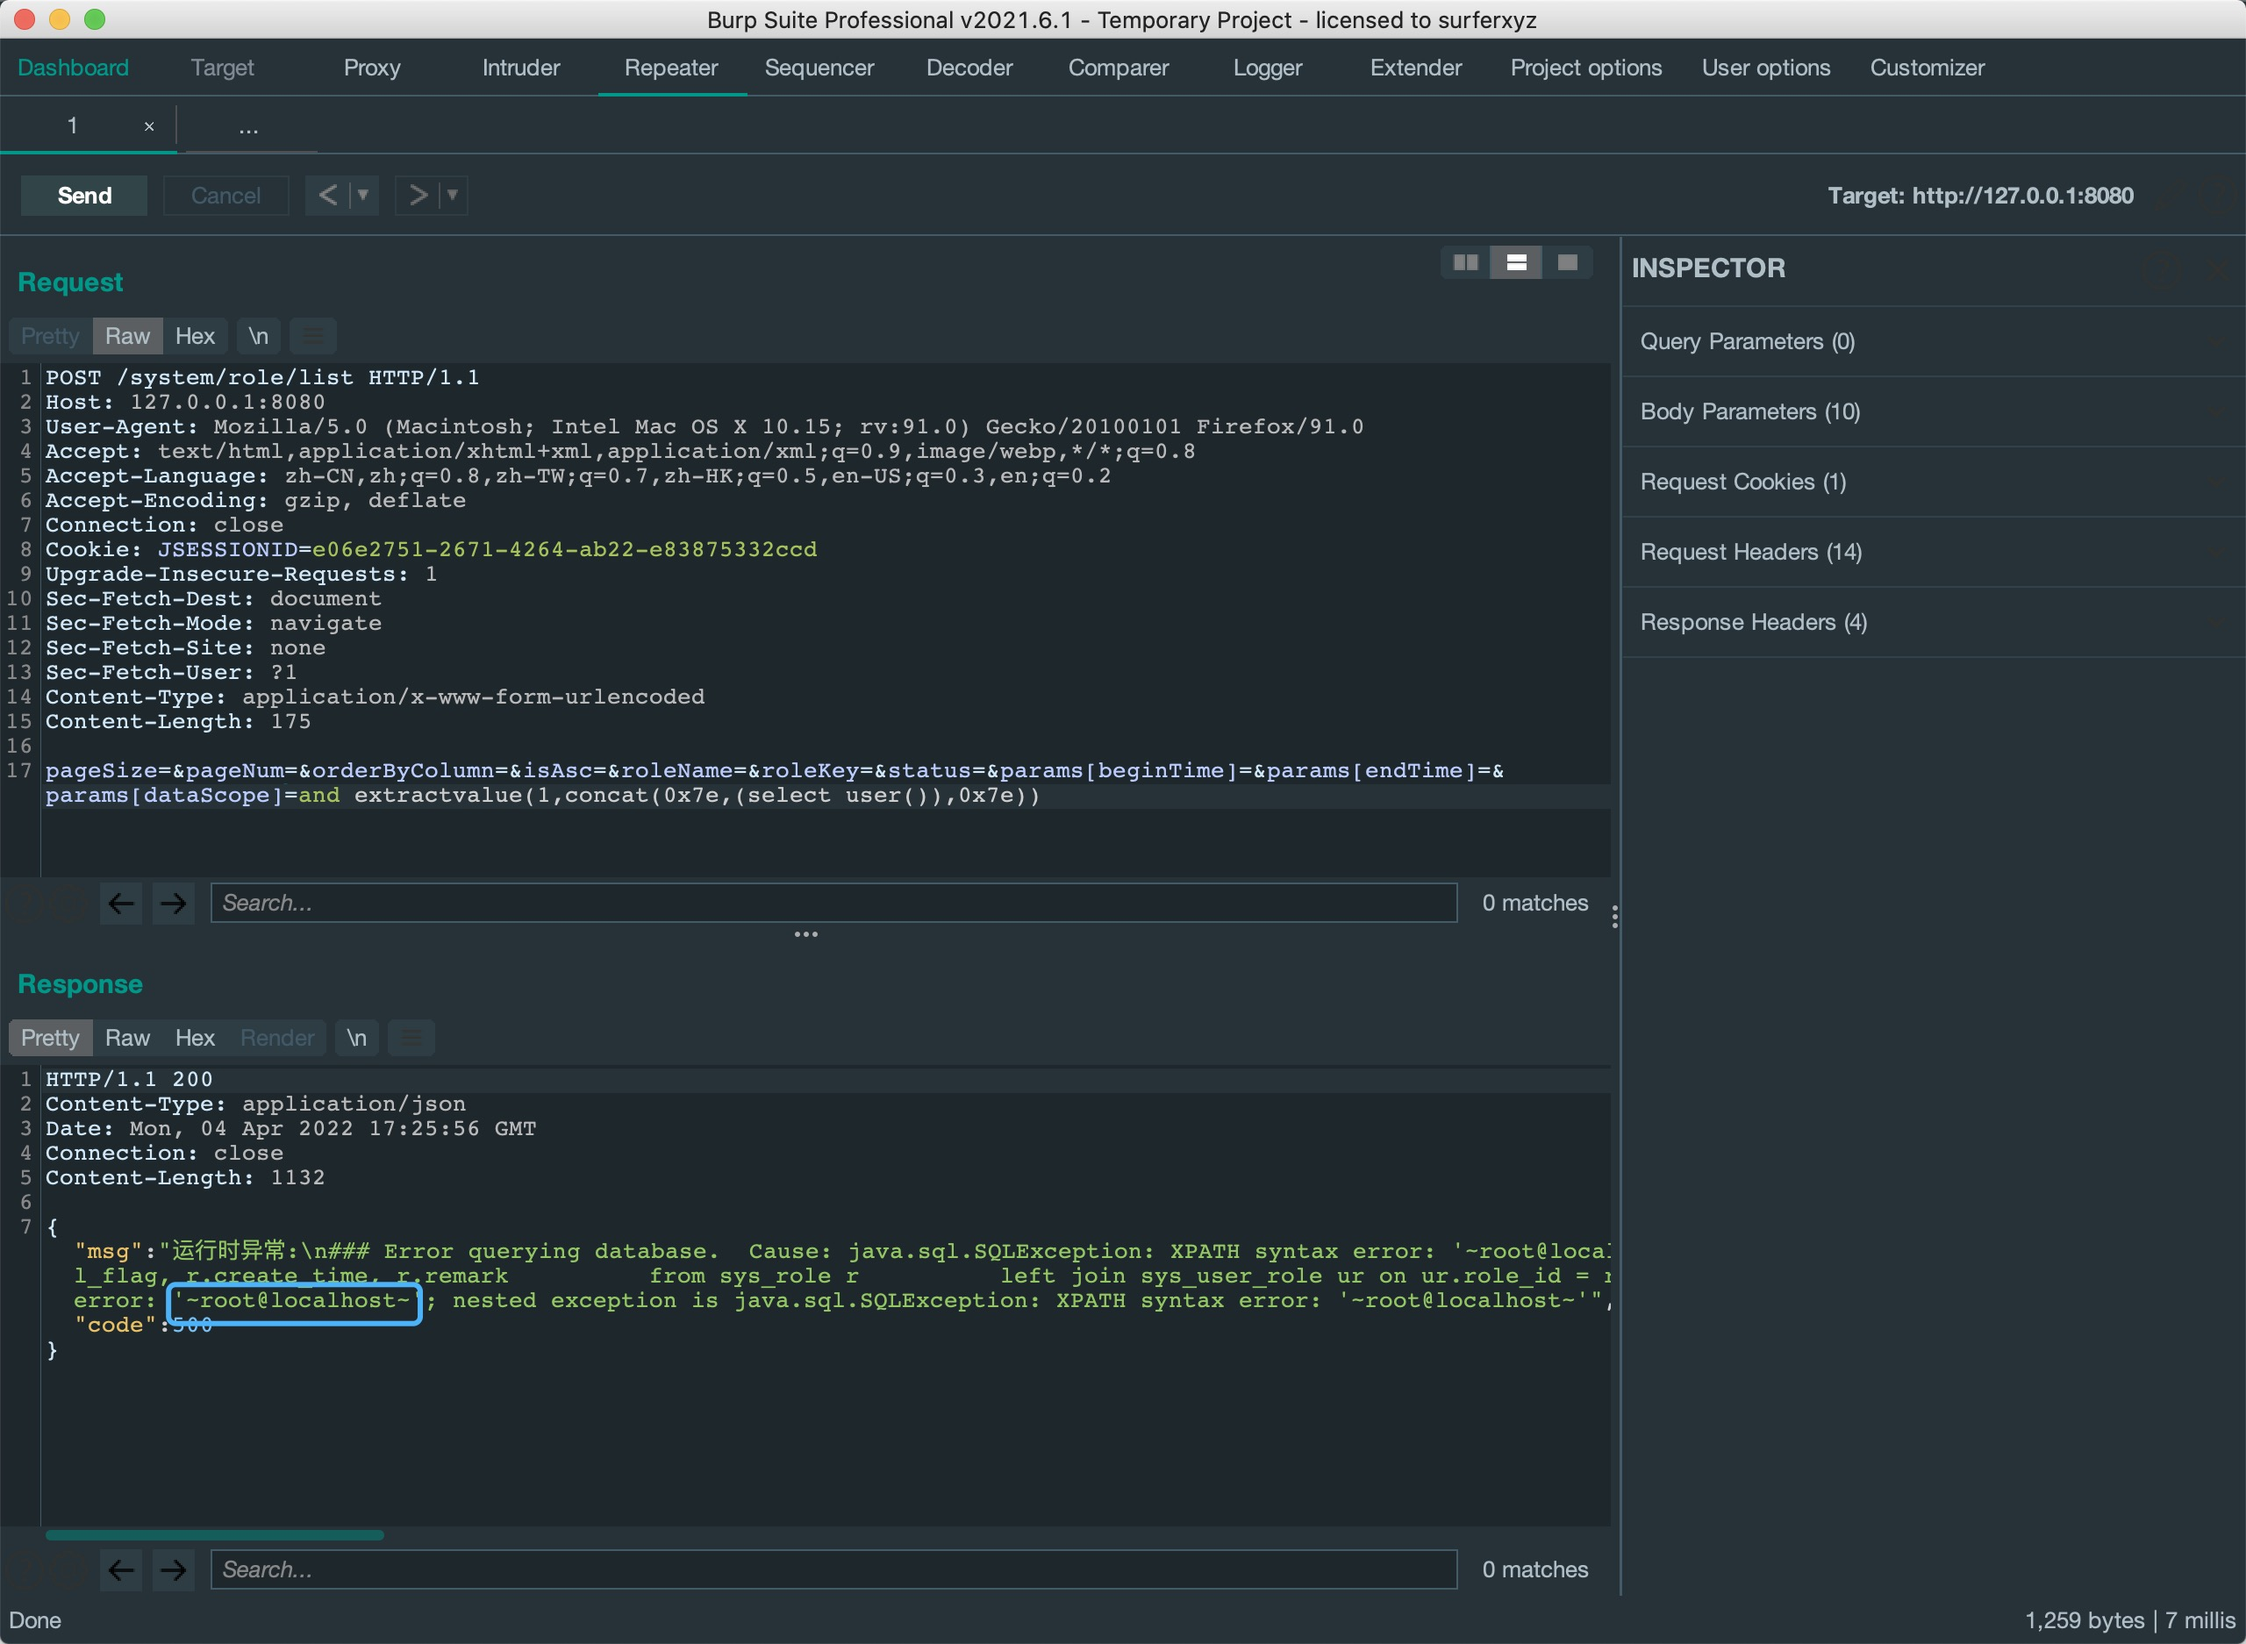
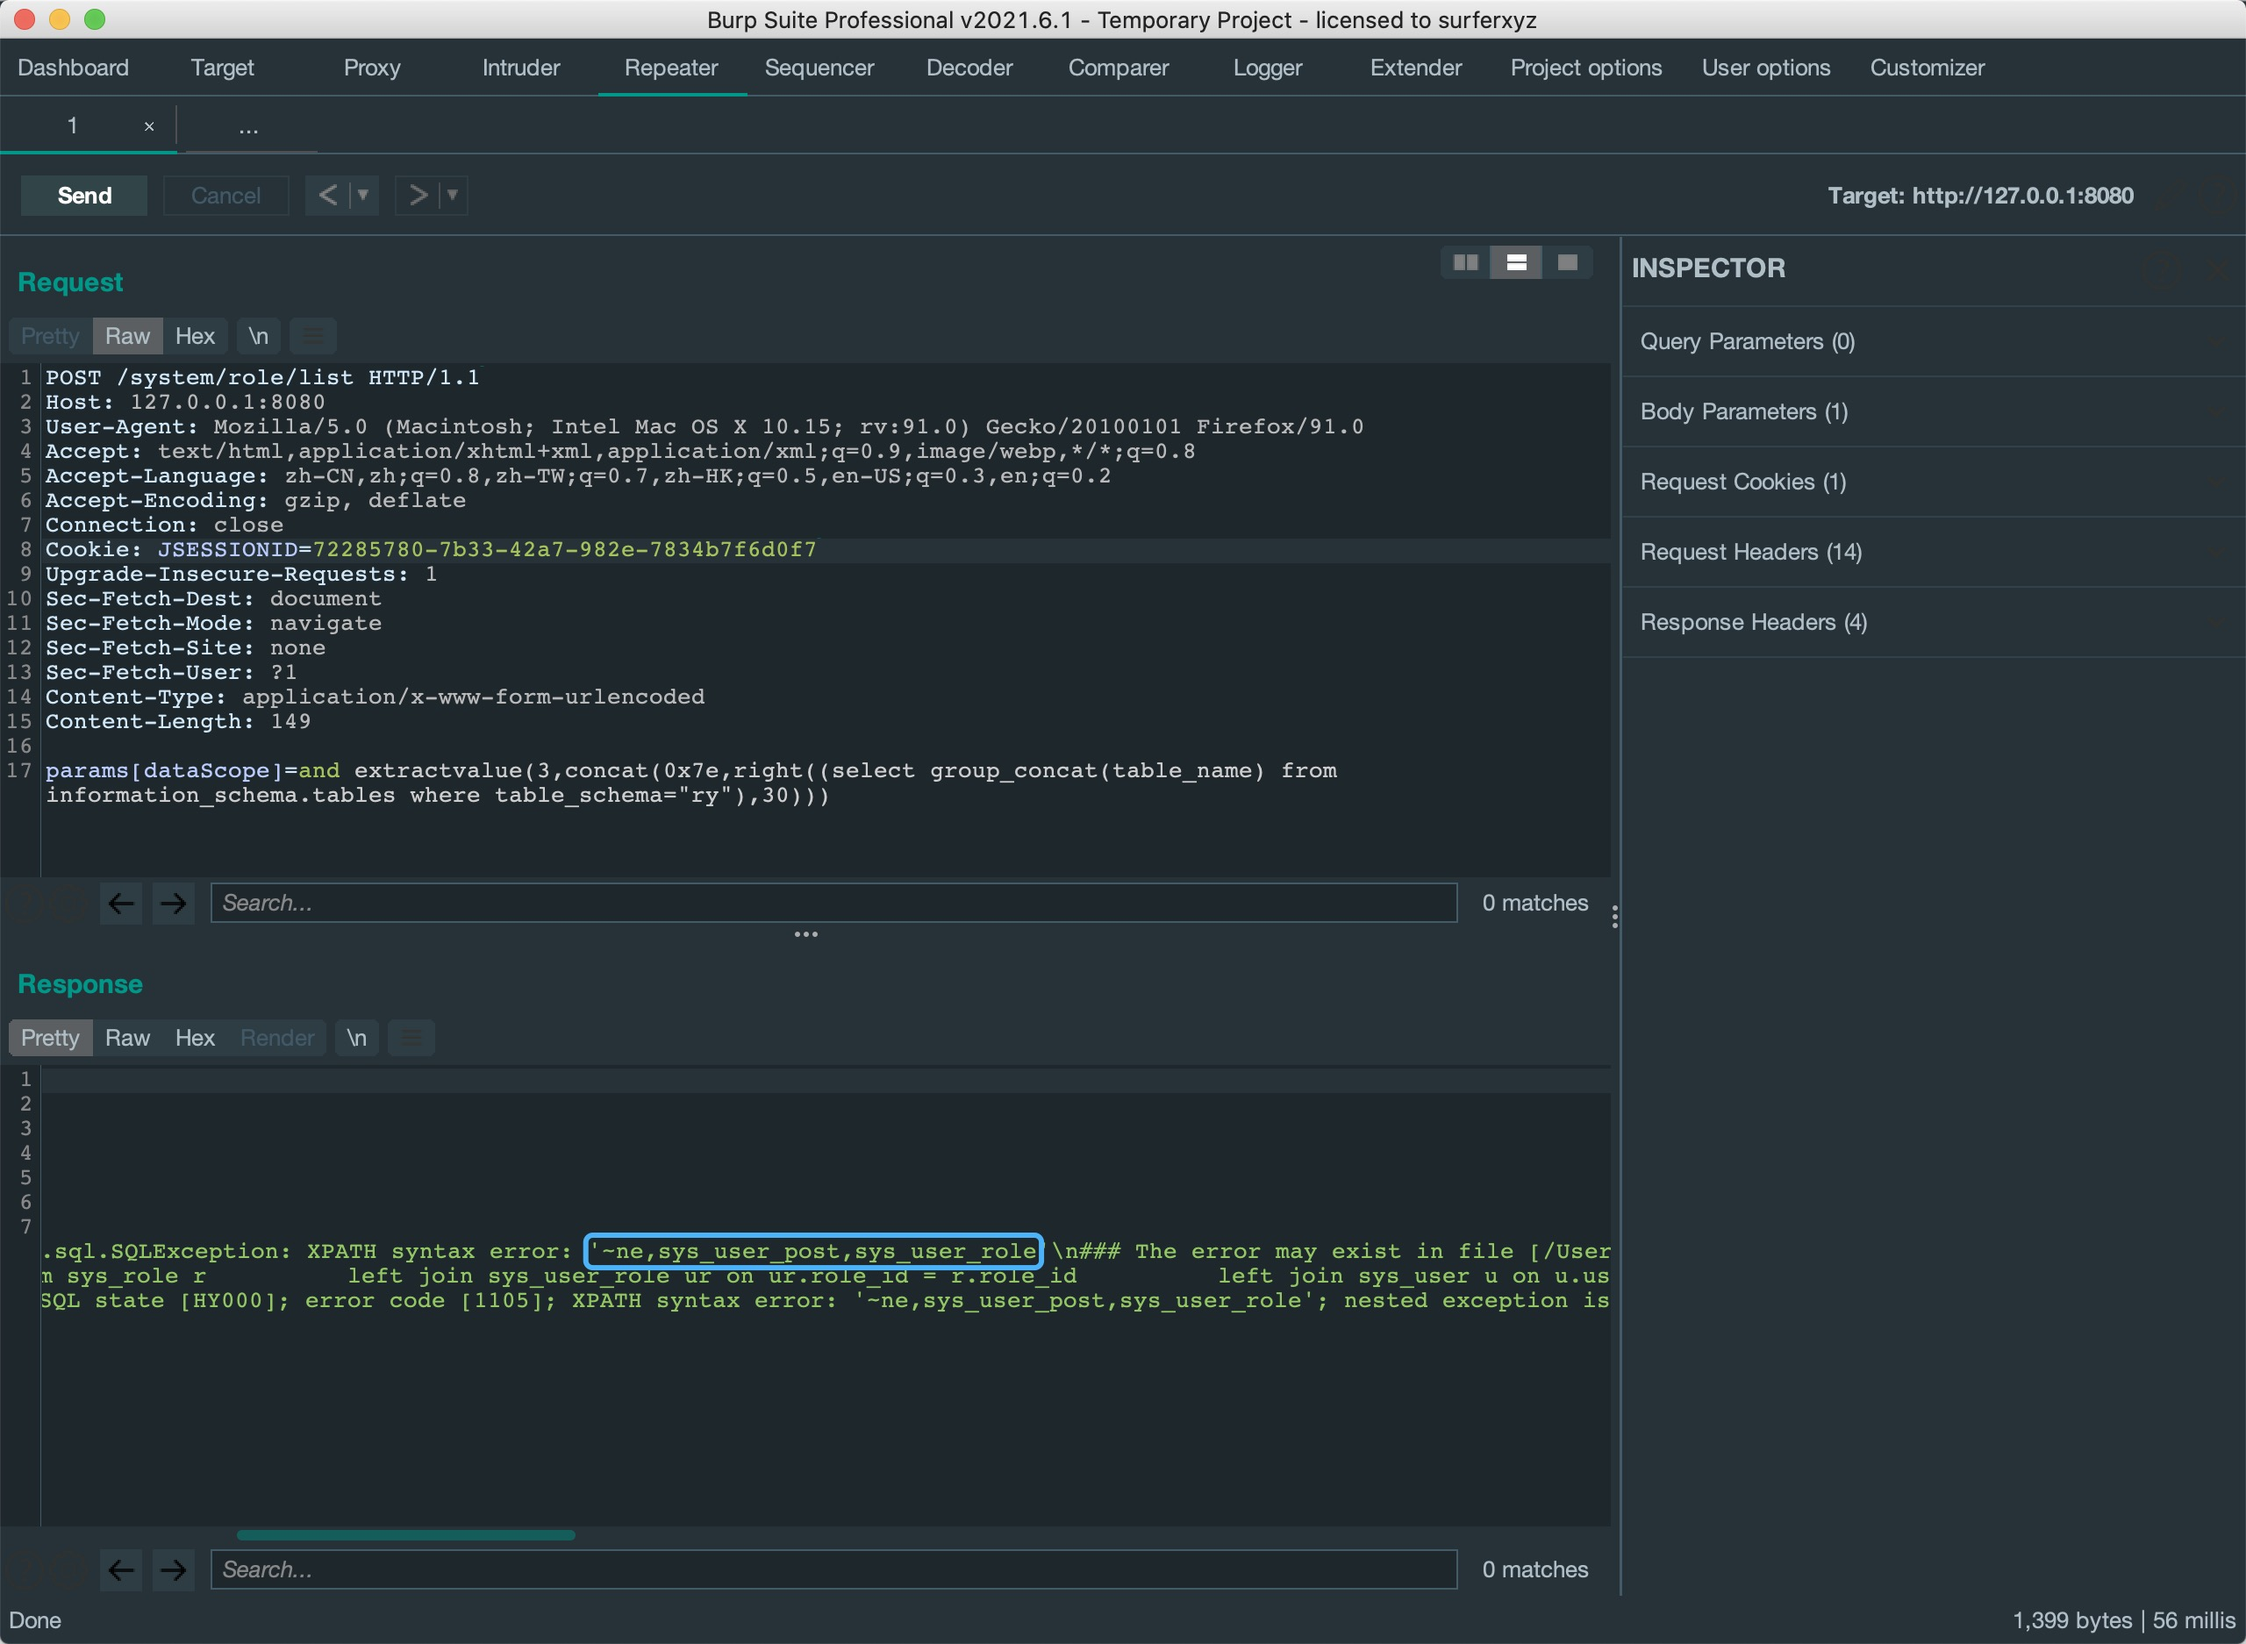
blog

diff --git a/blog/2022-4-4.html b/blog/2022-4-4.html
@@ -70,7 +70,7 @@
             <div class="col-lg-8 col-md-10 mx-auto">
                 <div class="post-heading">
                     <h1>若依CMS漏洞分析</h1>
-                    <h2 class="subheading">若依CMS后台RCE漏洞，后台SQL注入</h2>
+                    <h2 class="subheading">若依CMS后台RCE漏洞，后台SQL注入，任意文件下载</h2>
                     <span class="meta">Posted by
               <a href="#">SEVENTEEN</a>
               on April 4, 2022</span>
@@ -169,11 +169,45 @@ org.yaml.snakeyaml.Yaml.load(<span class="hljs-string">'!!javax.script.ScriptEng
               
               <p>&nbsp;&nbsp;&nbsp;登陆后台后向该POST接口构造报错注入即可SQL注入。</p>
             	
-            	<a data-fancybox="gallery" href="../img/2022-4-4/1-5.jpg">
-                <img class="img-fluid" src="../img/2022-4-4/1-5.jpg" alt="">
+            	<a data-fancybox="gallery" href="../img/2022-4-4/2-1.jpg">
+                <img class="img-fluid" src="../img/2022-4-4/2-1.jpg" alt="">
               </a>
               
               <h2 class="section-heading">漏洞分析</h2>
+              
+              <p>&nbsp;&nbsp;&nbsp;首先找到payload中路由对应的控制器，传入的role参数内包含我们的payload。</p>
+            	
+            	<a data-fancybox="gallery" href="../img/2022-4-4/2-2.jpg">
+                <img class="img-fluid" src="../img/2022-4-4/2-2.jpg" alt="">
+              </a>
+              
+              <p>&nbsp;&nbsp;&nbsp;这个方法内调用了selectRoleList方法，从方法名大概可以猜出这里造成的sql注入。
+              	先跟进startPage方法，从注释中看到这里的功能点大概是对读取到的内容做一个分页处理。
+              	对我们sql注入没有什么影响，我直接不给这几个参数赋值也不会影响我们后面的利用。
+              	同时，也可以看到if条件为false，所以这里直接返回了。</p>
+            	
+            	<a data-fancybox="gallery" href="../img/2022-4-4/2-3.jpg">
+                <img class="img-fluid" src="../img/2022-4-4/2-3.jpg" alt="">
+              </a>
+              
+              <p>&nbsp;&nbsp;&nbsp;返回后带着role进入了selectRoleList方法。</p>
+            	
+            	<a data-fancybox="gallery" href="../img/2022-4-4/2-4.jpg">
+                <img class="img-fluid" src="../img/2022-4-4/2-4.jpg" alt="">
+              </a>
+              
+              <p>&nbsp;&nbsp;&nbsp;跟了一堆动态代理，最终发现来到这里调用mybatis框架。</p>
+            	
+            	<a data-fancybox="gallery" href="../img/2022-4-4/2-5.jpg">
+                <img class="img-fluid" src="../img/2022-4-4/2-5.jpg" alt="">
+              </a>
+              
+              <p>&nbsp;&nbsp;&nbsp;来到语句映射文件，可以看到payload选择dataScope作为注入点的原因是这里直接用${params.dataScope}朴实无华地拼接上去，
+              	而不是使用#{params.dataScope}预编译，也没有进行任何过滤操作。</p>
+            	
+            	<a data-fancybox="gallery" href="../img/2022-4-4/2-5.jpg">
+                <img class="img-fluid" src="../img/2022-4-4/2-5.jpg" alt="">
+              </a>
                 
 
                             

diff --git a/index.html b/index.html
@@ -76,7 +76,7 @@
               若依CMS后台漏洞分析
             </h2>
             <h3 class="post-subtitle">
-              若依CMS后台RCE漏洞，后台SQL注入
+              若依CMS后台RCE漏洞，后台SQL注入，任意文件下载
             </h3>
           </a>
           <p class="post-meta">Posted by
